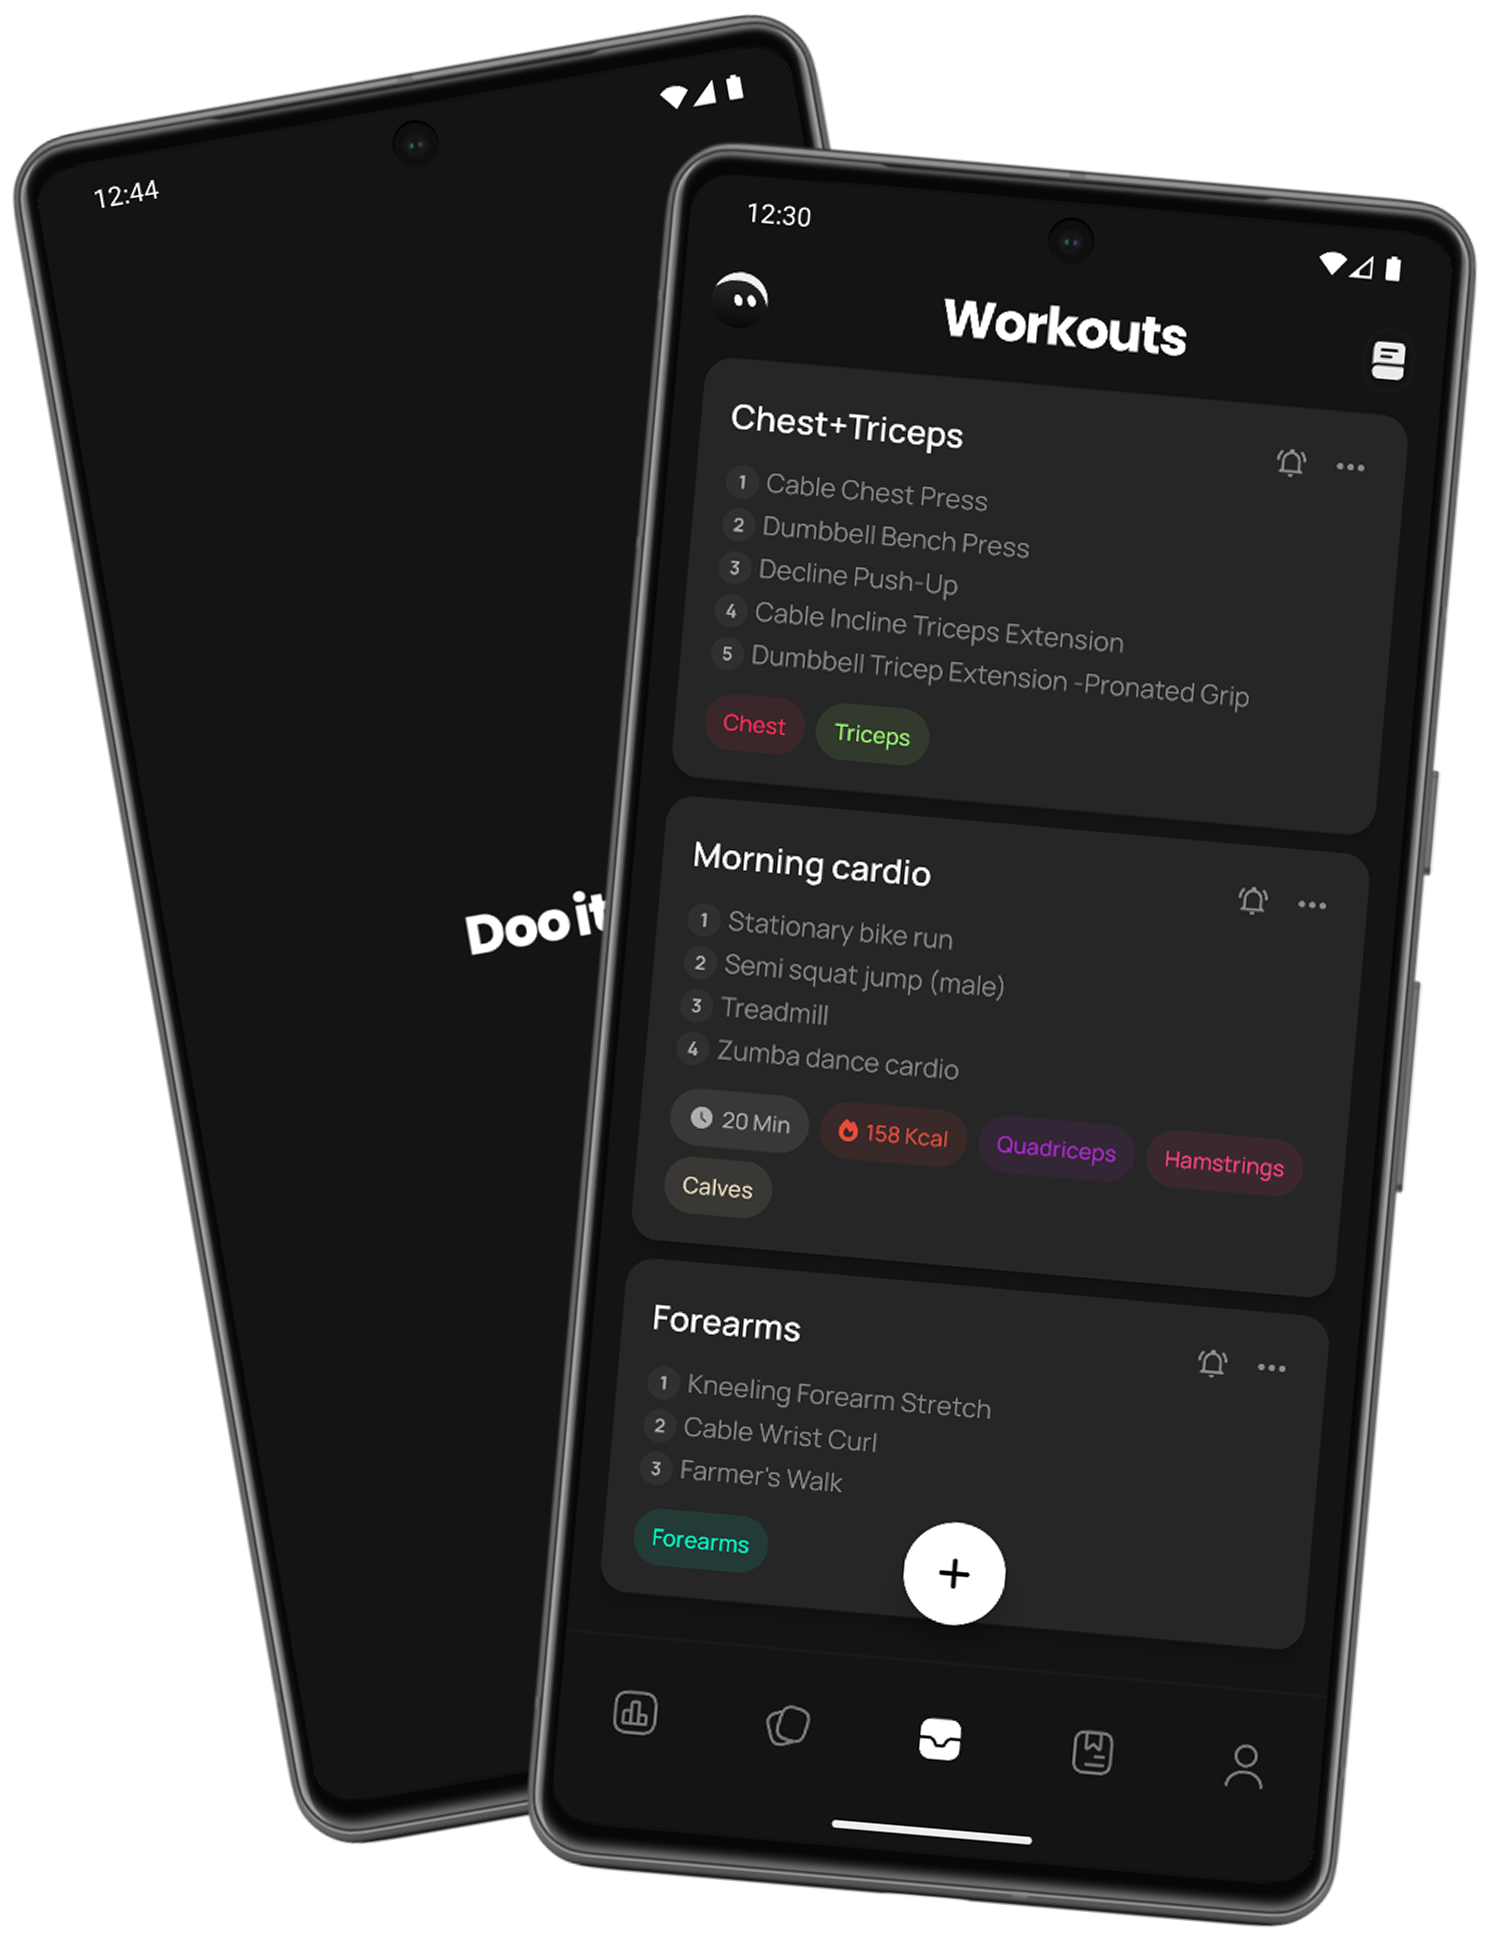
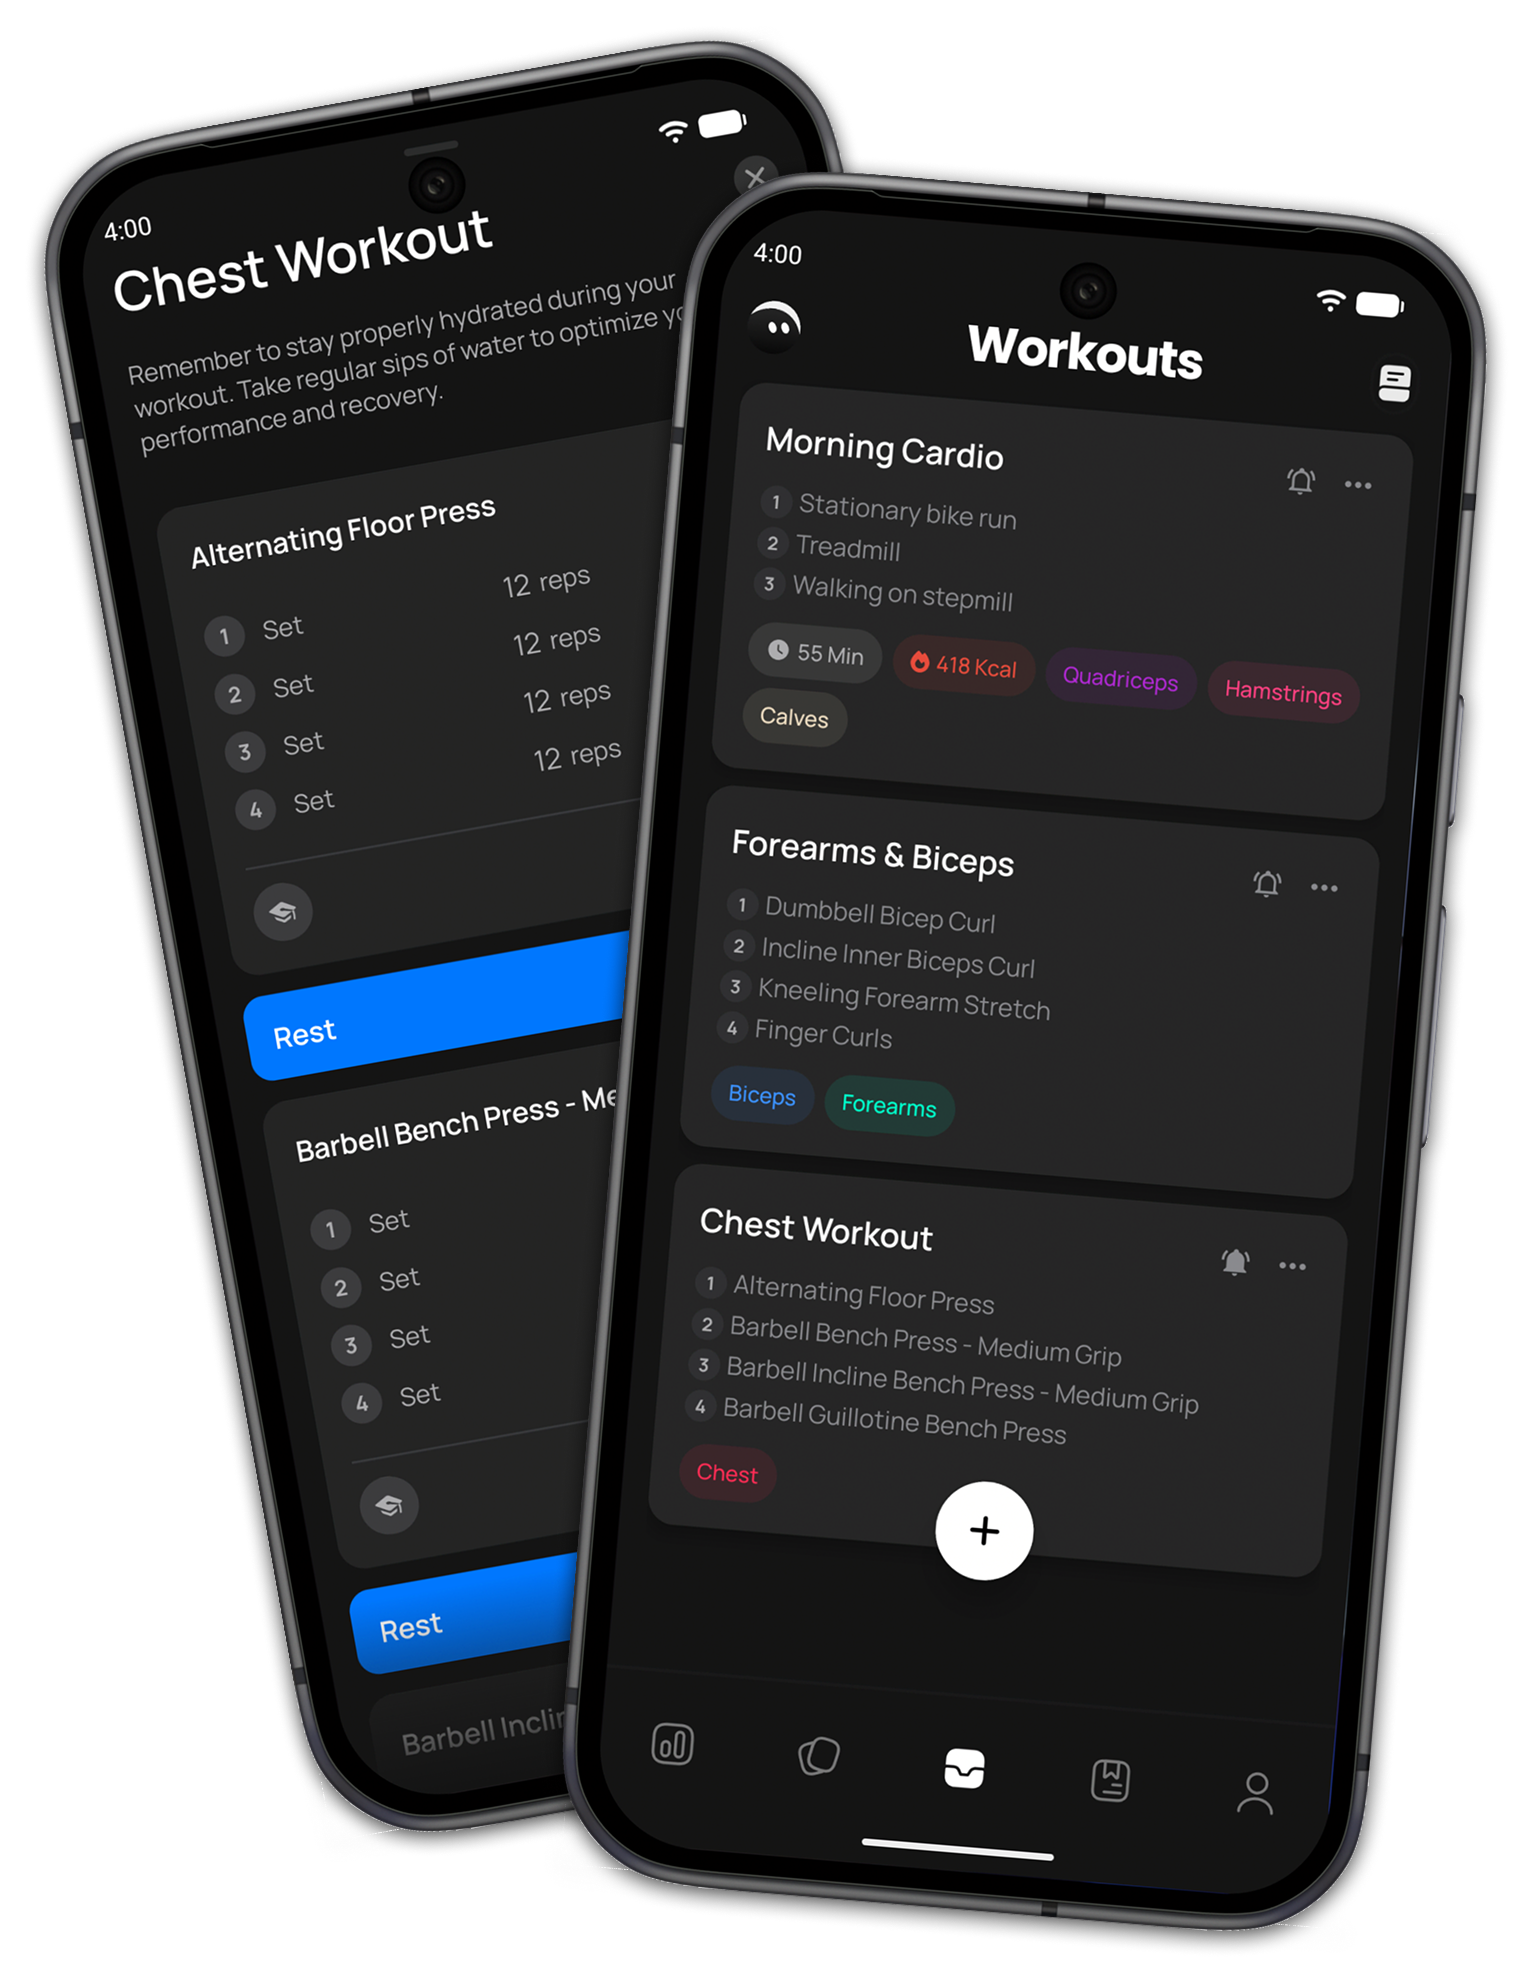
Revamp landing feature and mockup sections
Updates the homepage to improve visual storytelling: expands and slows the exercise ticker, adds a responsive full-width mockup showcase for mobile and desktop, and replaces the old "Why Doo It!" text list with four styled feature cards using new icon assets. It also swaps in updated imagery (including new full/home/bento assets) and removes the old features image.

diff --git a/dooit-landing/app/page.tsx b/dooit-landing/app/page.tsx
@@ -7,14 +7,6 @@ export const metadata: Metadata = {
     "800+ illustrated exercises. Strength and cardio routines. No ads, no sign-up, 100% private.",
 };
 
-const whys = [
-  { icon: "🔒", text: "100% private — your data stays on your device only" },
-  { icon: "🚫", text: "Zero ads. Train without interruptions" },
-  { icon: "⚡", text: "No sign-up. Start training instantly" },
-  { icon: "🌍", text: "Available in English and Spanish" },
-  { icon: "📏", text: "Metric and imperial systems supported" },
-];
-
 const ticker = [
   "Squat",
   "Deadlift",
@@ -28,6 +20,16 @@ const ticker = [
   "Plank",
   "Burpees",
   "Tricep Extension",
+  "Lat Pulldown",
+  "Incline Bench Press",
+  "Leg Press",
+  "Romanian Deadlift",
+  "Walking Lunges",
+  "Bulgarian Split Squat",
+  "Leg Curl",
+  "Leg Extension",
+  "Lateral Raise",
+  "Hammer Curl"
 ];
 
 export default function Home() {
@@ -128,7 +130,35 @@ export default function Home() {
           aria-hidden
           className="py-5 border-y border-black/[0.06] overflow-hidden bg-[#f7f7f7]"
         >
-          <div className="flex gap-12 animate-[ticker_28s_linear_infinite] whitespace-nowrap w-max">
+          <div className="flex gap-12 animate-[ticker_50s_linear_infinite] whitespace-nowrap w-max">
+            {[...ticker, ...ticker].map((item, i) => (
+              <span
+                key={i}
+                className="text-sm font-semibold uppercase tracking-widest text-[#ccc]"
+              >
+                {item}
+                <span className="ml-12 text-[#1579fb]">·</span>
+              </span>
+            ))}
+          </div>
+        </div>
+
+        {/* ── Full-width mockup showcase ── */}
+        {/* Mobile / small screens — zoomed crop, fixed height, no shrinking */}
+        <div className="relative w-full h-[340px] sm:h-[420px] md:hidden">
+          <Image src="/full.png" alt="..." fill className="object-cover object-center" priority />
+        </div>
+
+        {/* Tablet and up — full natural width */}
+        <div className="hidden md:block">
+          <Image src="/full-features.png" alt="..." width={4200} height={1632.32} className="w-full h-auto" priority />
+        </div>
+
+        <div
+          aria-hidden
+          className="py-5 border-y border-black/[0.06] overflow-hidden bg-[#f7f7f7]"
+        >
+          <div className="flex gap-12 animate-[ticker_50s_linear_infinite] whitespace-nowrap w-max">
             {[...ticker, ...ticker].map((item, i) => (
               <span
                 key={i}
@@ -142,7 +172,7 @@ export default function Home() {
         </div>
 
         {/* ── Features Bento ── */}
-        <section id="features" className="py-28 px-6 md:px-12 bg-[#f7f7f7]">
+        <section id="features" className="py-28 pt-15 px-6 md:px-12 bg-[#f7f7f7]">
           <div className="max-w-6xl mx-auto">
             <p className="text-xs font-semibold uppercase tracking-widest text-[#626262] mb-4 px-14">
               Features
@@ -182,32 +212,73 @@ export default function Home() {
               Why Doo It!
             </p>
             <h2 className="flex items-start gap-3 text-4xl md:text-5xl font-black tracking-tight leading-tight mb-16 max-w-lg text-[#0A0A0A]">
-              <Image
-                src="/nop.png"
-                alt=""
-                width={40}
-                height={40}
-                className="py-3"
-                priority
-              />
+              <Image src="/nop.png" alt="" width={40} height={40} className="py-3" priority />
               No tricks. No surprise subscriptions.
             </h2>
 
-            <div className="grid sm:grid-cols-2 lg:grid-cols-3 gap-4">
-              {whys.map(({ icon, text }) => (
-                <div
-                  key={text}
-                  className="flex items-start gap-4 rounded-2xl bg-white border border-black/[0.06] p-6"
-                >
-                  <span className="text-xl mt-0.5">{icon}</span>
-                  <p className="text-sm font-medium text-[#0A0A0A] leading-snug">
-                    {text}
-                  </p>
+            <div className="grid grid-cols-1 sm:grid-cols-2 lg:grid-cols-4 gap-4">
+
+              {/* Purple — Private */}
+              <div className="relative rounded-3xl overflow-hidden p-6 flex flex-col min-h-[220px]"
+                style={{background:"linear-gradient(145deg,#f3e8ff 0%,#ede9fe 60%,#f5f0ff 100%)", border:"1.5px solid #882edd25"}}>
+                <div className="absolute top-0 left-0 w-40 h-40 rounded-full pointer-events-none"
+                  style={{background:"radial-gradient(circle, #882edd30 0%, transparent 70%)", transform:"translate(-30%,-30%)"}} />
+                <div className="relative z-10 w-12 h-12 rounded-2xl flex items-center justify-center mb-auto">
+                  <Image src="/lock.png" alt="" width={32} height={32} className="object-contain" />
                 </div>
-              ))}
+                <div className="relative z-10 mt-8">
+                  <h3 className="text-base font-black text-[#0A0A0A] mb-1">100% Private</h3>
+                  <p className="text-sm text-[#666] leading-relaxed">Your data stays on your device. No servers, no cloud.</p>
+                </div>
+              </div>
+
+              {/* Blue — No Ads */}
+              <div className="relative rounded-3xl overflow-hidden p-6 flex flex-col min-h-[220px]"
+                style={{background:"linear-gradient(145deg,#dbeafe 0%,#e0f2fe 60%,#eff6ff 100%)", border:"1.5px solid #1579fb25"}}>
+                <div className="absolute top-0 left-0 w-40 h-40 rounded-full pointer-events-none"
+                  style={{background:"radial-gradient(circle, #1579fb30 0%, transparent 70%)", transform:"translate(-30%,-30%)"}} />
+                <div className="relative z-10 w-12 h-12 rounded-2xl flex items-center justify-center mb-auto">
+                  <Image src="/noads.png" alt="" width={32} height={32} className="object-contain" />
+                </div>
+                <div className="relative z-10 mt-8">
+                  <h3 className="text-base font-black text-[#0A0A0A] mb-1">Zero Ads</h3>
+                  <p className="text-sm text-[#666] leading-relaxed">Train without interruptions. No banners, no popups, ever.</p>
+                </div>
+              </div>
+
+              {/* Green — No Sign-up */}
+              <div className="relative rounded-3xl overflow-hidden p-6 flex flex-col min-h-[220px]"
+                style={{background:"linear-gradient(145deg,#dcfce7 0%,#d1fae5 60%,#f0fdf4 100%)", border:"1.5px solid #36c55d25"}}>
+                <div className="absolute top-0 left-0 w-40 h-40 rounded-full pointer-events-none"
+                  style={{background:"radial-gradient(circle, #36c55d30 0%, transparent 70%)", transform:"translate(-30%,-30%)"}} />
+                <div className="relative z-10 w-12 h-12 rounded-2xl flex items-center justify-center mb-auto">
+                  <Image src="/account.png" alt="" width={32} height={32} className="object-contain" />
+                </div>
+                <div className="relative z-10 mt-8">
+                  <h3 className="text-base font-black text-[#0A0A0A] mb-1">No Sign-up</h3>
+                  <p className="text-sm text-[#666] leading-relaxed">Open the app and start instantly. No email, no account.</p>
+                </div>
+              </div>
+
+              {/* Yellow — Multilingual */}
+              <div className="relative rounded-3xl overflow-hidden p-6 flex flex-col min-h-[220px]"
+                style={{background:"linear-gradient(145deg,#fef9c3 0%,#fef3c7 60%,#fffbeb 100%)", border:"1.5px solid #fdcb2940"}}>
+                <div className="absolute top-0 left-0 w-40 h-40 rounded-full pointer-events-none"
+                  style={{background:"radial-gradient(circle, #fdcb2940 0%, transparent 70%)", transform:"translate(-30%,-30%)"}} />
+                <div className="relative z-10 w-12 h-12 rounded-2xl flex items-center justify-center mb-auto">
+                  <Image src="/translate.png" alt="" width={32} height={32} className="object-contain" />
+                </div>
+                <div className="relative z-10 mt-8">
+                  <h3 className="text-base font-black text-[#0A0A0A] mb-1">Multilingual</h3>
+                  <p className="text-sm text-[#666] leading-relaxed">English and Spanish. Metric and imperial units supported.</p>
+                </div>
+              </div>
+
             </div>
           </div>
         </section>
+
+
         {/* ── How it works ── */}
         <section className="py-20 px-6 md:px-12 border border-black/[0.06] rounded-b-[4rem] bg-[#f7f7f7] ">
           <div className="max-w-6xl mx-auto">
